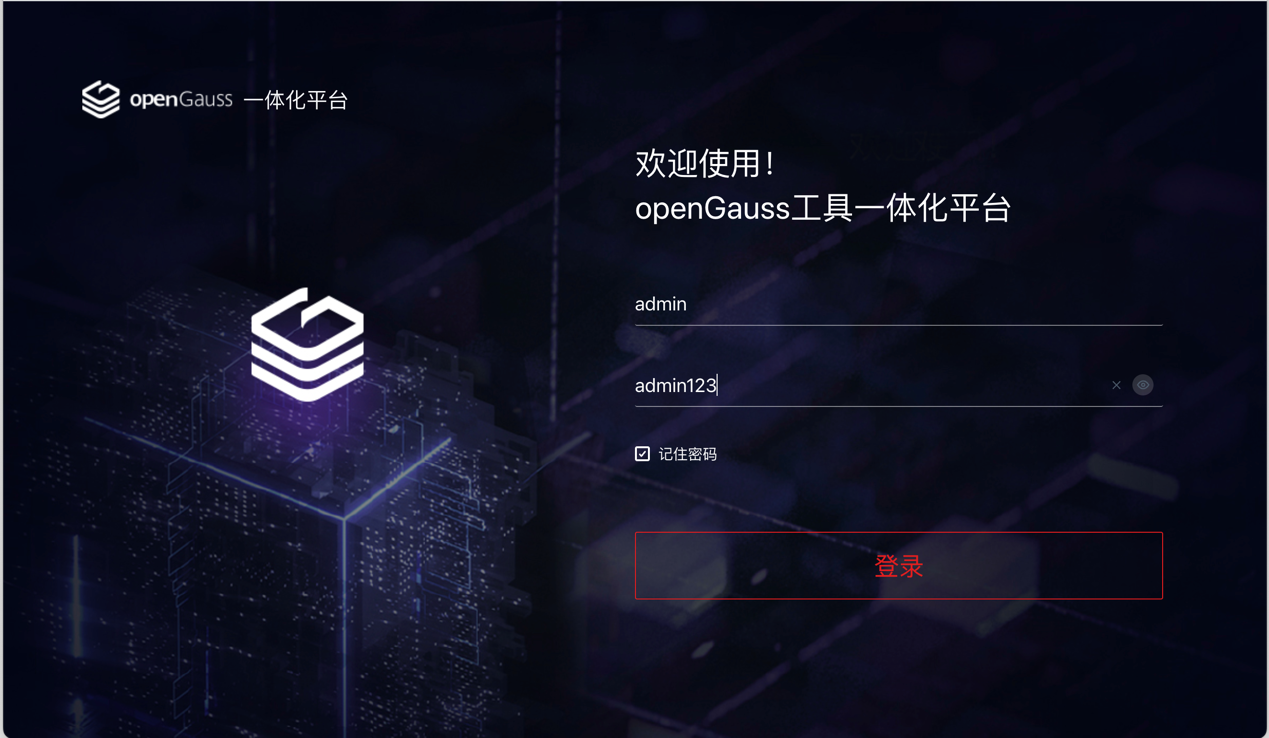
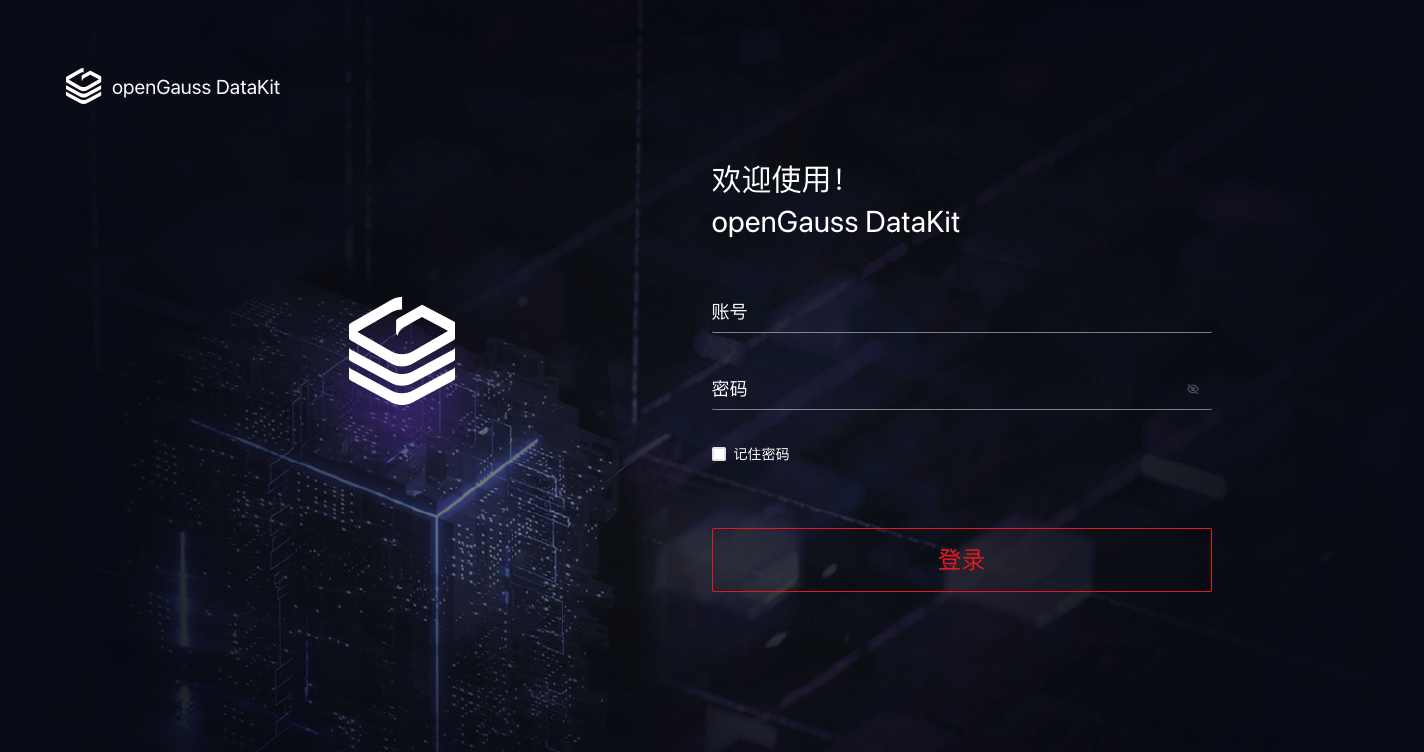
文档更新

diff --git a/openGauss-visualtool/doc/DataKit Product Manual - Platform.md b/openGauss-visualtool/doc/DataKit Product Manual - Platform.md
@@ -14,9 +14,9 @@
 
 openGauss的安装、运维场景对于初级用户或单纯想要测试openGauss数据库基本特性的使用者来说技术难度较大、过程较为复杂、学习曲线较为陡峭，尤其企业版安装对一般用户来说操作难度很大。使用可视化运维平台可以屏蔽openGauss的技术细节，让普通用户能够快速上手体验功能，让运维人员能够快速在企业环境中部署、卸载各类openGauss集群，减少了用户的学习成本和运维成本，实现了对openGauss各种常见操作的可视化，屏蔽了各种不同openGauss版本中的运维命令差异，可以让用户使用相同的方式操作数据库，不用知道命令细节也可以使用openGauss数据库的各项能力，让用户可以专注于自身的业务领域。
 
-因此需要开发一些有针对性的运维监控工具，为不同配置不同运维要求的客户提供运维技术支撑，这些都将是openGauss社区的宝贵资产。而社区急需一个一体化的平台通过插件的方式将这些工具进行整合，并支持方便快捷的个性化配置。对于社区合作伙伴已经开发的Web工具，合作伙伴也可以根据《插件开发指南》的要求自行改造为插件，整合到一体化平台中。
+因此需要开发一些有针对性的运维监控工具，为不同配置不同运维要求的客户提供运维技术支撑，这些都将是openGauss社区的宝贵资产。而社区急需一个平台通过插件的方式将这些工具进行整合，并支持方便快捷的个性化配置。对于社区合作伙伴已经开发的Web工具，合作伙伴也可以根据《插件开发指南》的要求自行改造为插件，整合到openGauss DataKit中。
 
-本产品是基于Web的openGauss的可视化的一体化平台系统，目的是方便客户使用和管理openGauss可视化工具，可以为客户降低openGauss数据库安装使用门槛，做到安全中心管理，插件管理，以及其它功能包括一键化部署、卸载、组件化安装、多版本升级、日常运维和。本文档主要适用openGauss3.0.0+版本。
+本产品是基于Web的openGauss的可视化的平台系统，目的是方便客户使用和管理openGauss可视化工具，可以为客户降低openGauss数据库安装使用门槛，做到安全中心管理，插件管理，以及其它功能包括一键化部署、卸载、组件化安装、多版本升级、日常运维和。本文档主要适用openGauss3.0.0+版本。
 
 ## **主要功能介绍**
 

diff --git a/openGauss-visualtool/doc/DataKit Plugin Development Documentation.md b/openGauss-visualtool/doc/DataKit Plugin Development Documentation.md
@@ -238,6 +238,37 @@ window.$wujie?.bus.$on('opengauss-locale-change', val => {
 })
 ```
 
+### 前端其他公共事件
+
+- opengauss-menu-collapse，平台emit事件。当左侧导航收缩或展开时，插件页面需要监听此切换事件，做相应的样式处理，一般在入口文件监听即可，示例如下：
+
+```JavaScript
+const htmlStyle = document.getElementsByTagName('html')[0].style
+window.$wujie?.bus.$on('opengauss-menu-collapse', val => {
+  if (val === '1') {
+    htmlStyle.setProperty('padding-left', '64px', 'important')
+  } else {
+    htmlStyle.setProperty('padding-left', '236px', 'important')
+  }
+})
+```
+
+- opengauss-login-expired，平台on事件。当平台接收到插件页面的接口过期时，通知平台接口过期，需重新登录时使用，示例如下：
+
+```JavaScript
+// 一般在前端接口拦截器中使用
+window.$wujie?.bus.$emit('opengauss-login-expired')
+```
+
+- opengauss-close-tab，平台on事件。当插件需要关闭平台上的某个tab页时使用，示例如下：
+
+```JavaScript
+window.$wujie?.bus.$emit('opengauss-close-tab', {
+  name: '此处是route的name',
+  fullPath: '此处是route的fullPath'
+})
+```
+
 ### 插件间页面跳转示例
 
 在插件里面获取主应用的jump方法进行跳转
@@ -505,7 +536,7 @@ public AjaxResult test() {
 
 调用效果：
 
-![img](https://fullstack-dao.feishu.cn/space/api/box/stream/download/asynccode/?code=YTQyMDhkZDM3NzkwZjFlZjQ3YTdkOGJhNjgwZTM5NmVfd3pXZjZESWZWczQ3Z2JzMVRDbWdyTVNPbDlpd2tXMUNfVG9rZW46Ym94Y25USno1cGRFVk52ZTNDTkZxU0sxcTZnXzE2NzM4NzY5NzY6MTY3Mzg4MDU3Nl9WNA)
+![plugin-develop-1](./_resources/plugin-develop-1.png)
 
 ## 插件扩展参数配置
 在插件中可以配置自定义的参数，以提供给平台获取使用，比如插件的Logo、插件的主题等。
